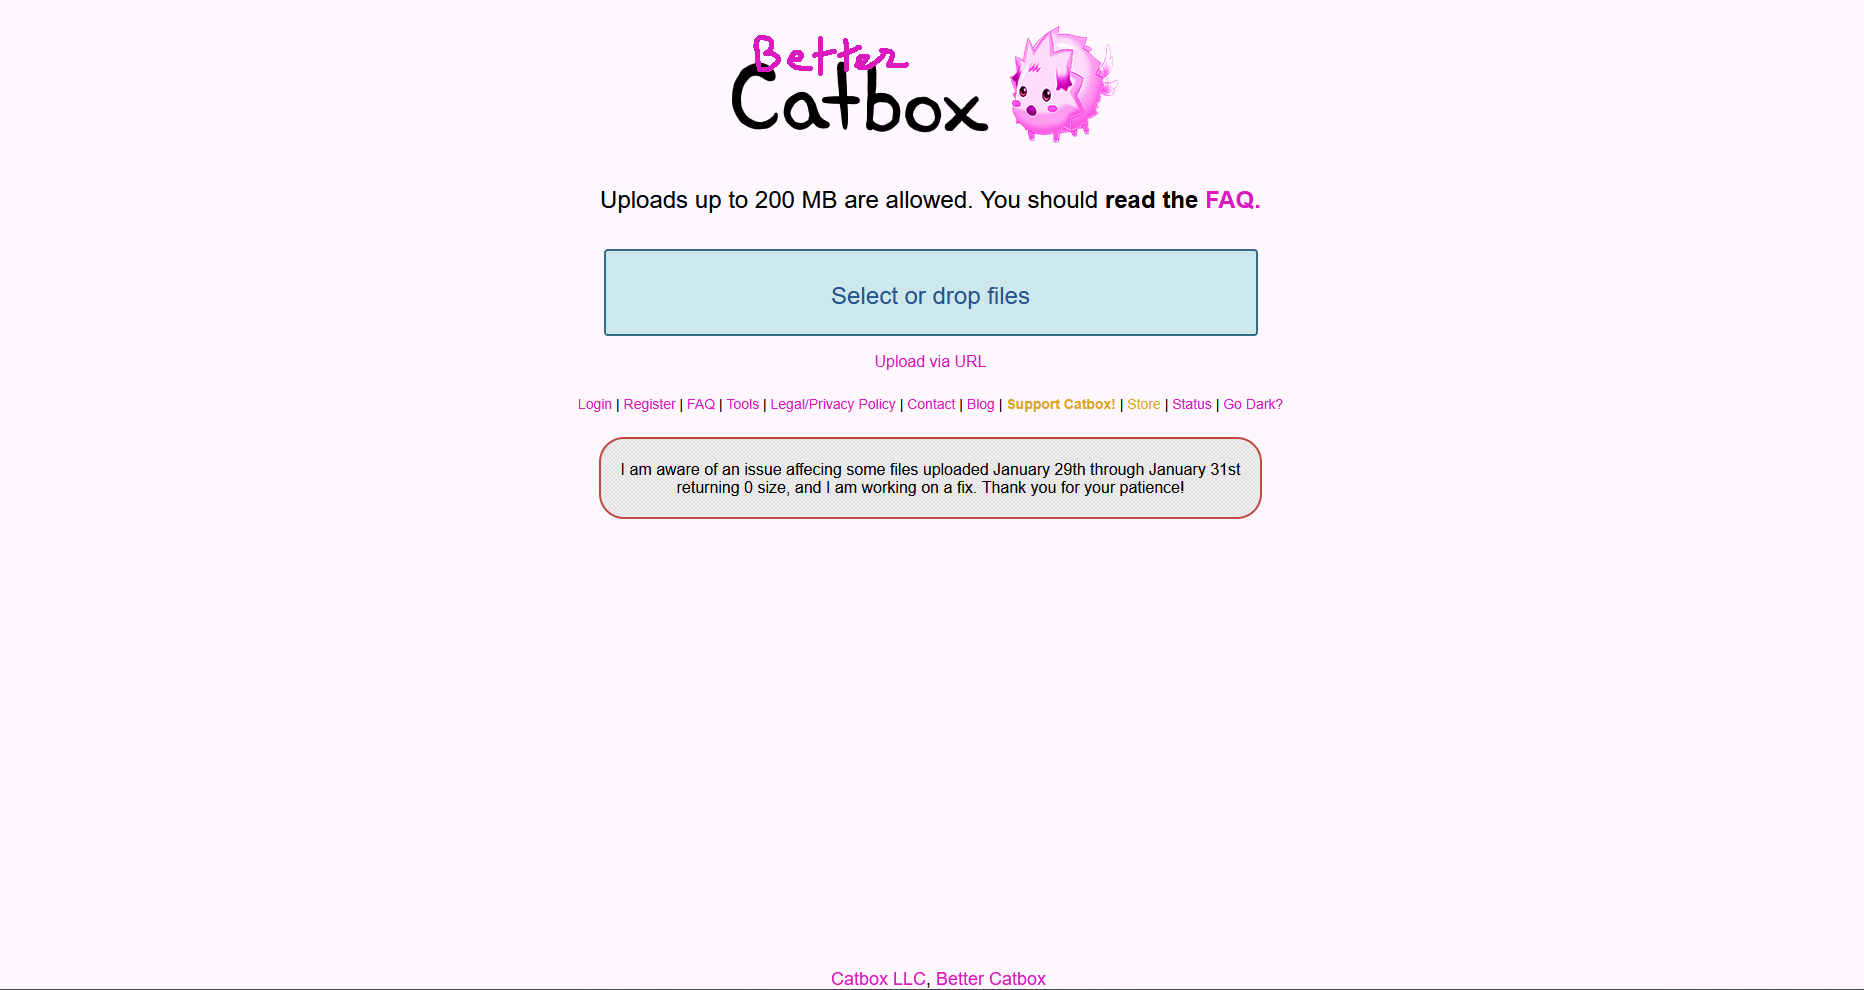
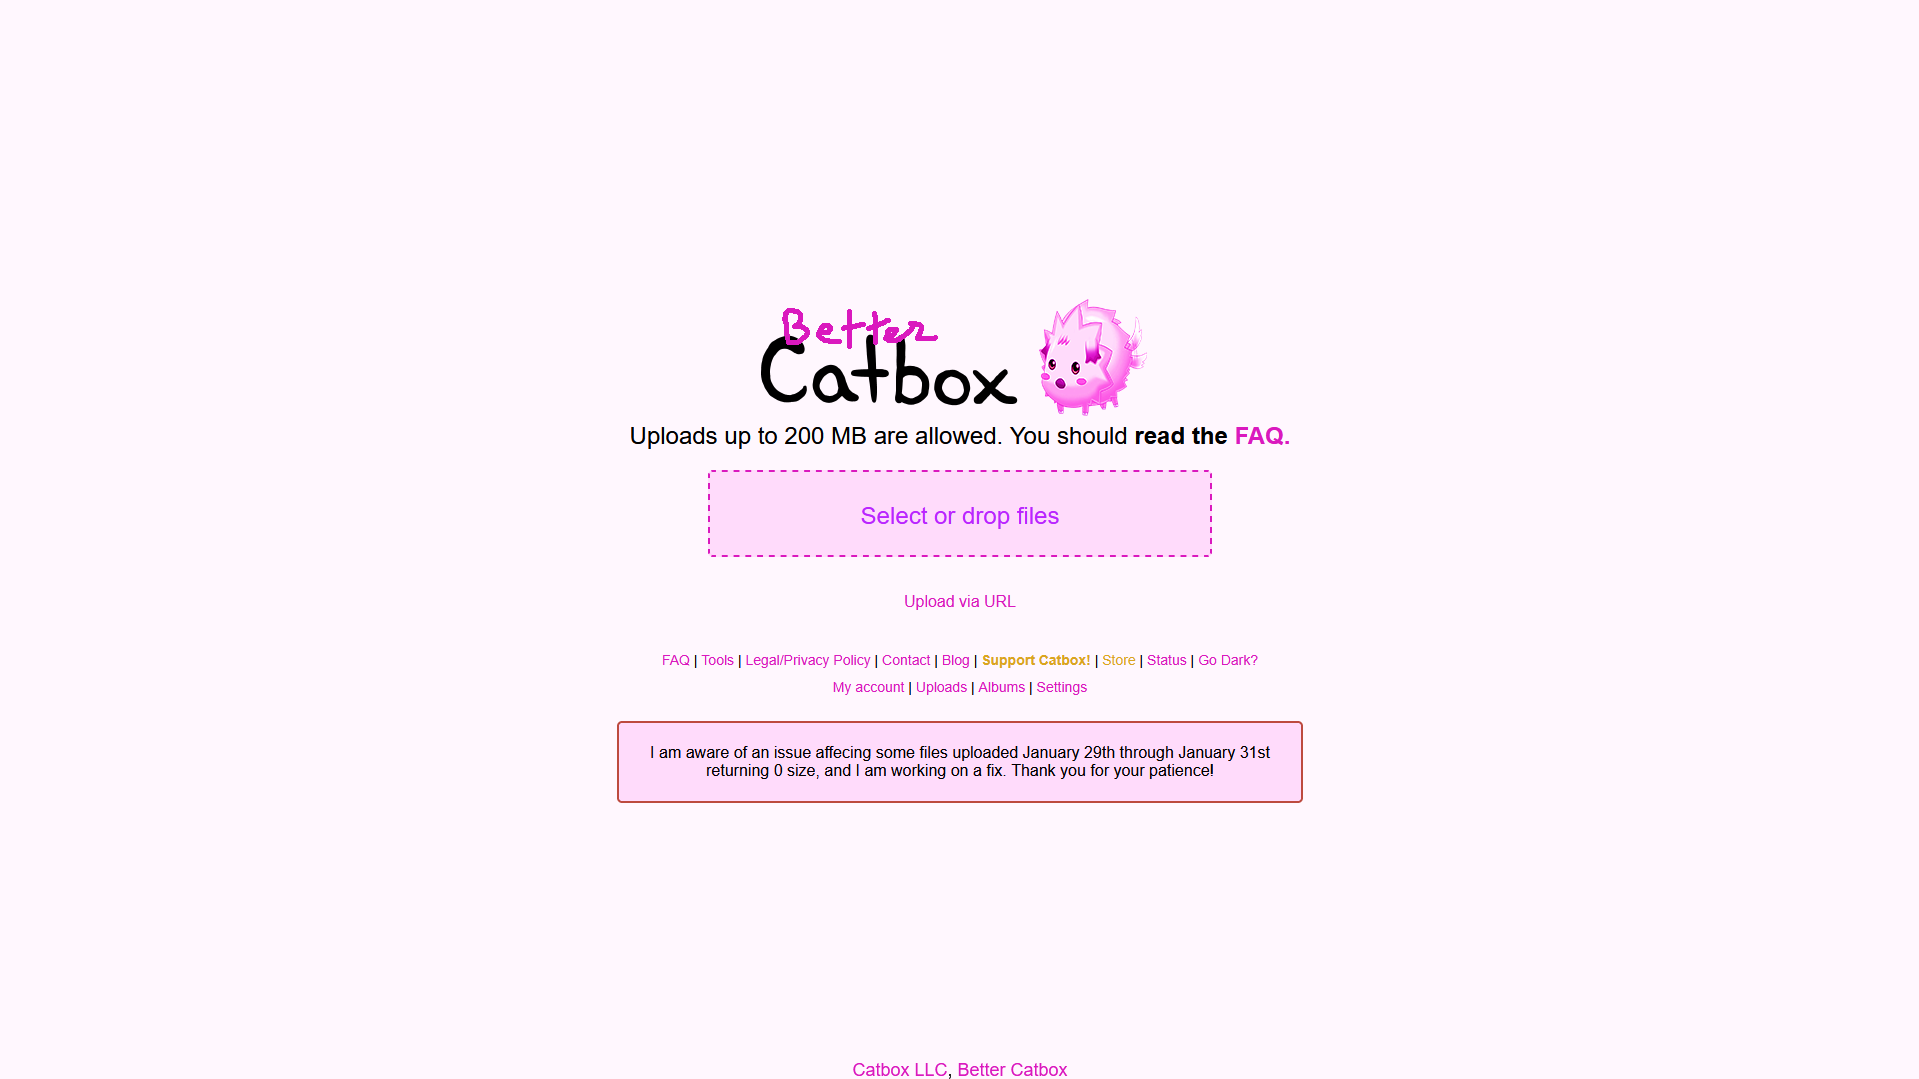
update style, add new navbar, add some privacy
- Better style
- Style now support user account page
- Hide sensitive information such as username, hash (account identifier), and email address
- If the user is logged in, add a dedicated navigation menu

diff --git a/script.js b/script.js
@@ -2,7 +2,7 @@
 // @name 			Better Catbox
 // @namespace 		https://github.com/anytngv2/better-catbox
 // @supportURL 		https://github.com/anytngv2/better-catbox
-// @version 		1.1.1-beta
+// @version 		1.2.1-beta
 // @description 	Improves the overall experience of the catbox site by adding some features and cleaning up the UI
 // @author 			AnytngV2
 // @match 			https://*.catbox.moe/*
@@ -14,8 +14,8 @@
 // @compatible 		safari
 // @grant 			none
 // @run-at 			document-end
-// @updateURL 		
-// @downloadURL 	
+// @updateURL
+// @downloadURL
 // ==/UserScript==
 (function () {
     'use strict';
@@ -65,6 +65,71 @@
     });
 
     // ? ============================
+    // ? Security script
+    // ? ===========================
+
+    // hide your hash value
+    document.querySelectorAll("p").forEach(p => {
+        p.innerHTML = p.innerHTML.replace(
+            /(Your userhash is:<\/b>\s*)([a-z0-9]+)/i,
+            '$1<br><span style="background:#000;color:#000;width:100%;">$2</span>'
+        );
+    });
+
+    // remove email value in input#email
+    const emailInput = document.querySelector('input[name="email"]');
+    if (emailInput) emailInput.value = '';
+
+    // ? ============================
+    // ? New navigation
+    // ? ============================
+    // check if user connected for new nav
+    if (location.pathname === "/") {
+        const aUser = document.querySelector('a[href="user/"]');
+        if (aUser) {
+            const prev = aUser.previousSibling;
+            const next = aUser.nextSibling;
+
+            if (prev && prev.nodeType === 3 && prev.textContent.trim() === "|") {
+                prev.remove();
+            } else if (next && next.nodeType === 3 && next.textContent.trim() === "|") {
+                next.remove();
+            }
+
+            aUser.remove();
+
+            // user nav
+
+            const userNav = document.createElement('div');
+            userNav.innerHTML = `
+                <div class="linkrow" style="margin-top:10px;">
+                    <a href="user/" class="linkbutton">
+                        My account
+                    </a>
+                    |
+                    <a href="user/view.php" class="linkbutton">
+                        Uploads
+                    </a> 
+                    |
+                    <a href="user/manage_albums.php" class="linkbutton">
+                        Albums
+                    </a>
+                    |
+                    <a href="user/manage.php" class="linkbutton">
+                        Settings
+                    </a>
+                </div>
+            `;
+
+            document.querySelector('div.linkrow').after(userNav);
+        }
+    }
+
+
+
+
+
+    // ? ============================
     // ? DesignRewrite
     // ? ============================
     if (CONFIG.customStyle) {
@@ -78,6 +143,7 @@
                 --background: #fff7fe;
                 --background-alt: #ffdbfb;
                 --background-alt2: #ffb0f6;
+                --foreground: #000;
             }
             `;
         } else {
@@ -88,6 +154,7 @@
                     --background: #1d1b1d;
                     --background-alt: #362f35;
                     --background-alt2: #61465e;
+                    --foreground: #fff;
                 }
             `;
         }
@@ -95,7 +162,7 @@
         styleRewrite += `
             body{
                 background-color:var(--background);
-                background-image:none !important;    
+                background-image:none !important;
             }
 
             a.linkbutton,
@@ -107,7 +174,7 @@
             a.linkbutton:hover{
                 color:var(--primary);
             }
-            
+
             .faq h1{
                 color:var(--primary);
                 text-align:center;
@@ -162,7 +229,7 @@
                 border-bottom: 0;
                 border-radius:5px 5px 0 0;
             }
-            
+
             .faq > ul dd{
                 border-left: 1px dashed var(--primary);
                 border-top: 0;
@@ -170,8 +237,8 @@
                 border-bottom: 1px dashed var(--primary);
                 margin-left:0;
                 margin-bottom:0;
-            } 
-            
+            }
+
             .hometab{
                 width:10%;
                 padding: 5px 12px;
@@ -251,13 +318,17 @@
             }
 
             form.genericform input,
-            input[type="text"].stylized{
+            input[type="text"].stylized,
+            textarea.stylized,
+            input[type="button"],
+            button{
                 background-color: var(--background-alt2);
                 border: unset;
                 width: calc(100% - 15px);
                 border-radius: 5px;
                 padding: 5px;
             }
+                
 
             form.genericform small{
                 text-align: center;
@@ -272,7 +343,130 @@
                 color: #fff;
                 background-color:var(--primary);
             }
+
+            .notetinywarning{
+                background-color: var(--background-alt);
+                border-radius: 5px;
+                padding: 5px;
+                text-align: center;
+                margin: 0 auto;
+                background-image:unset;
+            }
+
+            #dropzoneUpload{
+                background-color: var(--background-alt);
+                border-radius: 5px;
+                text-align: center;
+                margin: 20px auto;
+                // width: 100%;
+                max-width: 500px;
+                border: 2px dashed var(--primary);
+            }
+
+            #dropzoneUpload:hover{
+                background-color: var(--background-alt2);
+            }
+
+            div.dz-default{
+                color: var(--secondary);
+            }
+
+            div.dz-preview{
+                background-image:unset;
+                background-color: var(--background-alt);
+                border-radius: 5px;
+                padding: 5px;
+                margin: 10px auto;
+            }
+
+            div.responseText{
+                background-color: var(--background-alt);
+                border-radius: 5px;
+                padding: 5px;
+                margin: 5px;
+                text-align: center;
+                border: 2px solid var(--primary);
+            }
+
+            .container{
+                background-color: var(--background-alt);
+                color: var(--primary);
+                border-radius: 5px;
+                padding: 5px;
+                margin: 5px auto;
+                text-align: center;
+                border: 2px dashed var(--primary);
+            }
+
+            .container .title,
+            .container .formatrow a{
+                color: var(--foreground);
+            }
+
+            .container hr{
+                border-top:unset;
+                border-bottom:1px solid var(--primary);
+            }
+
+            ul li.home{
+                border: 2px solid var(--primary);
+                border-radius: 5px;
+                padding: 5px;
+                margin: 5px;
+                text-align: center;
+                background-color: var(--background-alt);
+                background-image:unset;
+            }
+
+            .loginstatus{
+                display:none;
+            }
+
+            table{
+                background-image:unset;
+                background-color:var(--background-alt);
+                border:1px solid var(--primary);
+            }
+
+            table td{
+                border:1px solid var(--primary);
+            }
+
+            p.albumlink{
+                background-color:var(--background-alt);
+                border-radius:5px;
+                padding:5px;
+                margin:5px auto;
+                text-align:center;
+                border: 2px solid var(--primary);
+            }
+
+            form.urlUploadForm,
+            .urlUploadForm button.urlUpSubmit,
+            .urlUploadForm input[name="url"]{
+                width:unset;
+            }
+
+            .urlUploadForm button.urlUpSubmit,
+            .urlUploadForm input[name="url"]{
+                background-color:var(--background-alt2);
+                border: 2px solid var(--primary);
+            }
+            
         `;
+
+        if(location.pathname === "/"){
+            styleRewrite += `
+                body{
+                    margin:0;
+                    display:flex;
+                    flex-direction:column;
+                    align-items:center;
+                    justify-content:center;
+                    min-height:100dvh;
+                }
+            `;
+        }
 
         styleRewrite += `</style>`;
 

diff --git a/README.md b/README.md
@@ -22,7 +22,9 @@ A userscript that adds instant download buttons to images on Zerochan.net, allow
 
 ## Features
 
-- Design Reworked for a better visual
+- Design reworked for better visuals
+- Hide sensitive information such as username, hash (account identifier), and email address
+- If the user is logged in, add a dedicated navigation menu
 
 ## Installation
 
@@ -61,6 +63,13 @@ A userscript that adds instant download buttons to images on Zerochan.net, allow
 <img alt="" src="preview/faq_before.png" width="49%">
 <img alt="" src="preview/faq_after.png" width="49%">
 </div>
+
+### Manage account
+<div align="center">
+<img alt="" src="preview/manage_acc_before.png" width="49%">
+<img alt="" src="preview/manage_acc_after.png" width="49%">
+</div>
+
 
 
 ## Note
